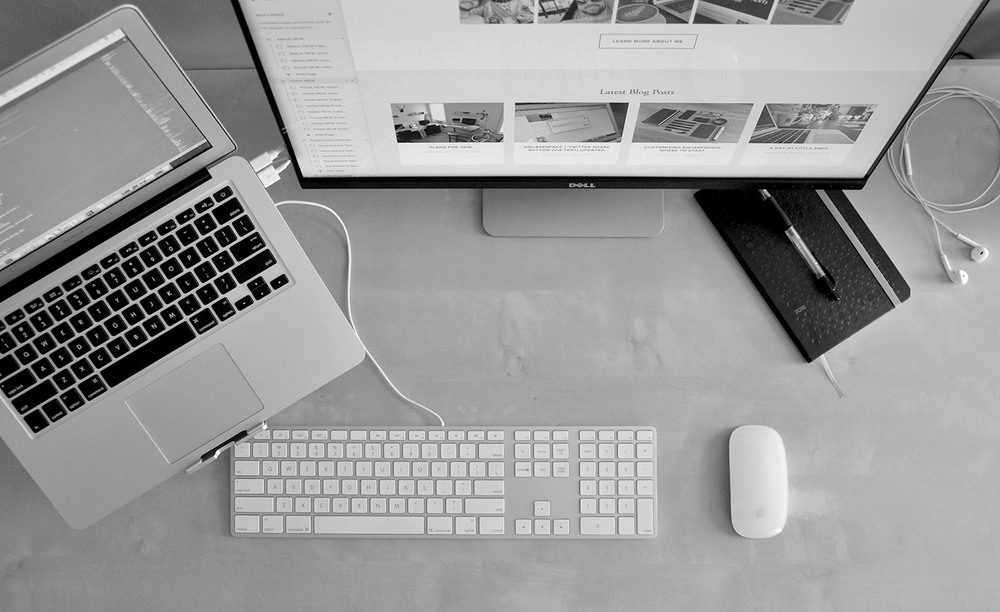
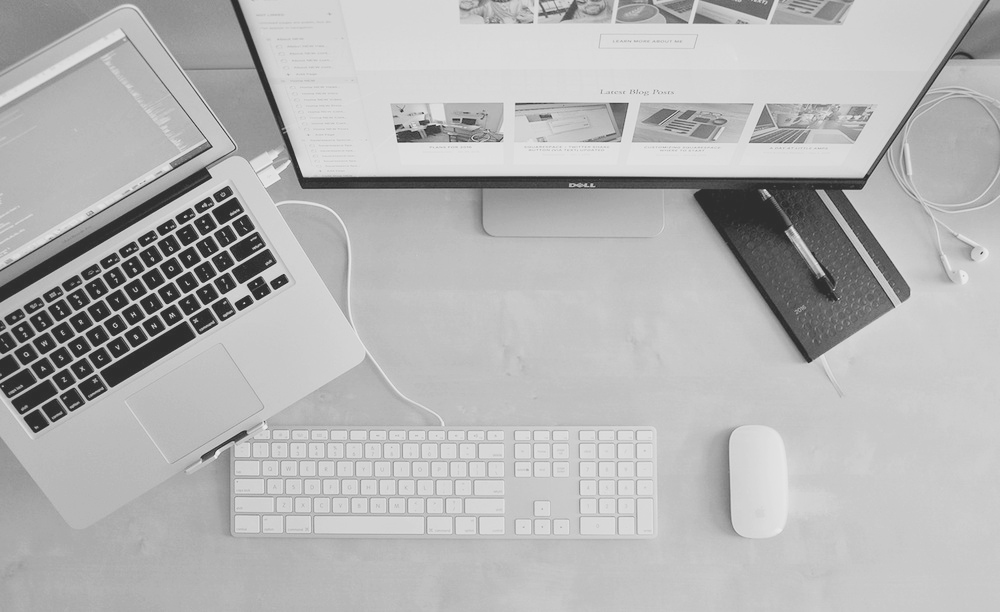
delete old photos, update virtual wallet description

diff --git a/index.html b/index.html
@@ -63,8 +63,8 @@
                 <div class="project__info">
                   <h3>Virtual Wallet</h3>
                   <p class="project__info__tech">MERN stack (MongoDB, Express.js, React.js, and Node.js)</p>
-                  <p>Website that allows users to save virtual copies of their gift cards or coupons, including auto-generated bar codes that can be scanned in the store. Users are provided web-scraped links to thousands of retailer websites for checking card balances.  The website uses Twitter access tokens for 3rd party authentication and Redux.js to manage state.  </p>
-                  <span class="project__info__links"><a href="http://virtual-wallet.surge.sh/" target="_blank">SITE</a> | <a href="https://github.com/sloan-holzman/project-4-fe" target="_blank">FRONT END CODE</a> | <a href="https://github.com/sloan-holzman/project-4-be" target="_blank">BACK END CODE</a></span>
+                  <p>Website that allows users to save virtual copies of their gift cards or coupons, including auto-generated bar codes that can be scanned in the store. Users are provided web-scraped links to thousands of retailer websites for checking card balances.  The website uses Twitter access tokens for 3rd party authentication and Redux.js to manage state. The site is also optimized for mobile.</p>
+                  <span class="project__info__links"><a href="https://virtual-wallet.surge.sh/" target="_blank">SITE</a> | <a href="https://github.com/sloan-holzman/project-4-fe" target="_blank">FRONT END CODE</a> | <a href="https://github.com/sloan-holzman/project-4-be" target="_blank">BACK END CODE</a></span>
                 </div>
               </div>
             <div class="project">

diff --git a/css/style.css b/css/style.css
@@ -56,7 +56,7 @@ a:hover {
 
 
 .background {
-  background-image: url("../img/desk_image2.jpg");
+  background-image: url("../img/desk_image.jpg");
   background-position: center;
   background-size: cover;
   background-attachment: fixed; //parallax scrolling effect
